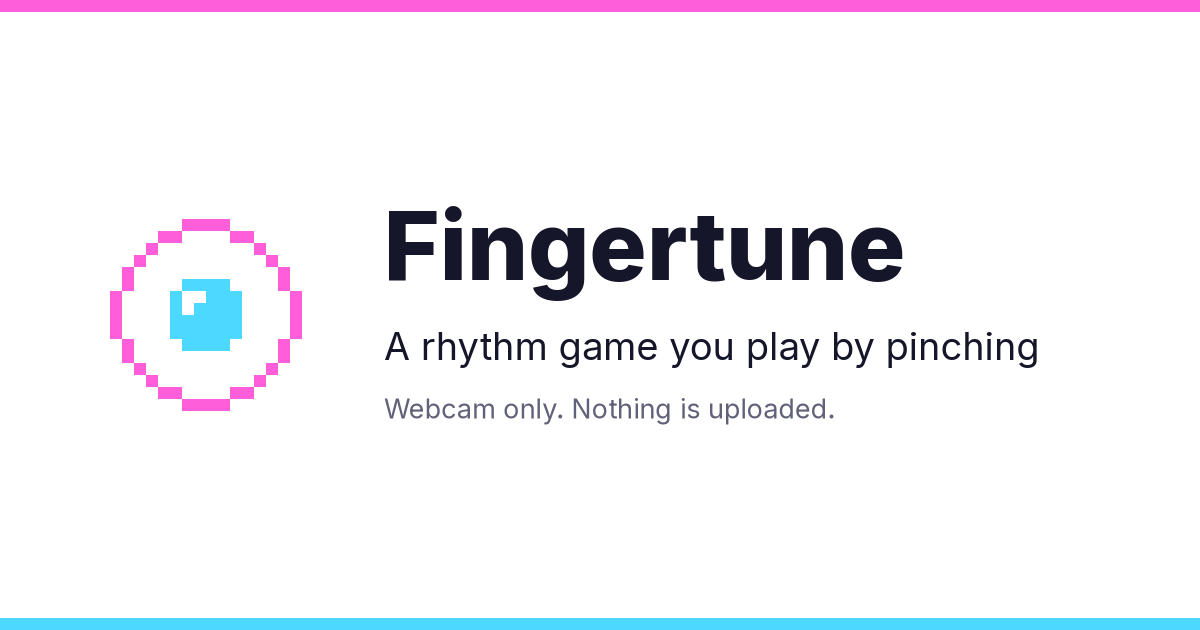
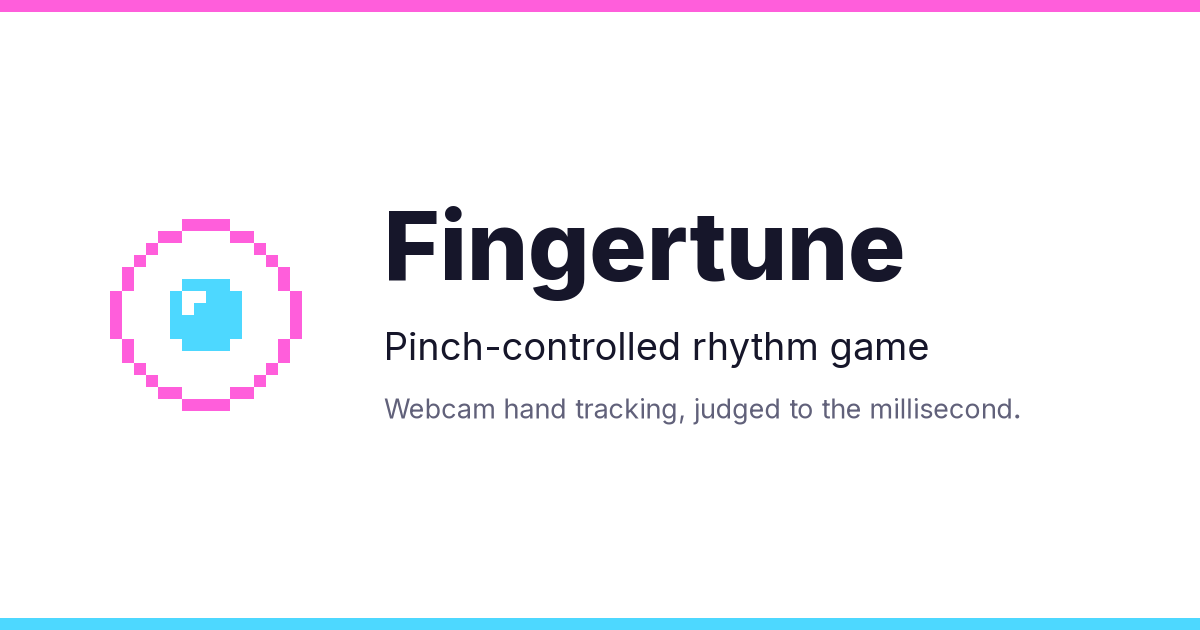
Say the same thing about the project in all four places
The repository carried four different descriptions of itself: one in the
GitHub About field, another in package.json, a third in the Open Graph tags
and a fourth on the preview card. Someone arriving from a link, a search
result and the npm metadata would have read three different projects.

The About line wins, because it is the one that says what is actually hard
here — the tracking is real-time and the judgement is to the millisecond,
which is the whole engineering problem. The others said "a rhythm game you
play by pinching", which is the demo, not the work.

The card takes it in two halves. The full sentence cannot be set at a size
that survives a feed, and a card that needs to be zoomed into has already
failed.

Changed region(s): [[0.3083, 0.5127, 0.8633, 0.6032], [0.4008, 0.6333, 0.8633, 0.6937]]

diff --git a/index.html b/index.html
@@ -6,7 +6,7 @@
     <title>Fingertune — pinch-controlled rhythm game</title>
     <meta
       name="description"
-      content="An Osu!-style rhythm game played by pinching your fingers, tracked from your webcam. Runs entirely in the browser."
+      content="Pinch-controlled rhythm game: real-time webcam hand tracking (MediaPipe Hand Landmarker) judged to the millisecond, 100% in the browser."
     />
     <meta name="theme-color" content="#ffffff" />
     <link rel="icon" type="image/svg+xml" href="./favicon.svg" />
@@ -33,7 +33,7 @@
     <meta property="og:title" content="Fingertune — a rhythm game you play by pinching" />
     <meta
       property="og:description"
-      content="Pinch your thumb and index on the beat. Hand tracked from your webcam, entirely in the browser — no upload, no account, no server."
+      content="Pinch-controlled rhythm game: real-time webcam hand tracking (MediaPipe Hand Landmarker) judged to the millisecond, 100% in the browser."
     />
     <meta property="og:image" content="https://qthullie.github.io/fingertune/og-card.png" />
     <meta property="og:image:type" content="image/png" />
@@ -50,7 +50,7 @@
     <meta name="twitter:title" content="Fingertune — a rhythm game you play by pinching" />
     <meta
       name="twitter:description"
-      content="Pinch your thumb and index on the beat. Hand tracked from your webcam, entirely in the browser."
+      content="Pinch-controlled rhythm game: real-time webcam hand tracking (MediaPipe Hand Landmarker) judged to the millisecond, 100% in the browser."
     />
     <meta name="twitter:image" content="https://qthullie.github.io/fingertune/og-card.png" />
   </head>
